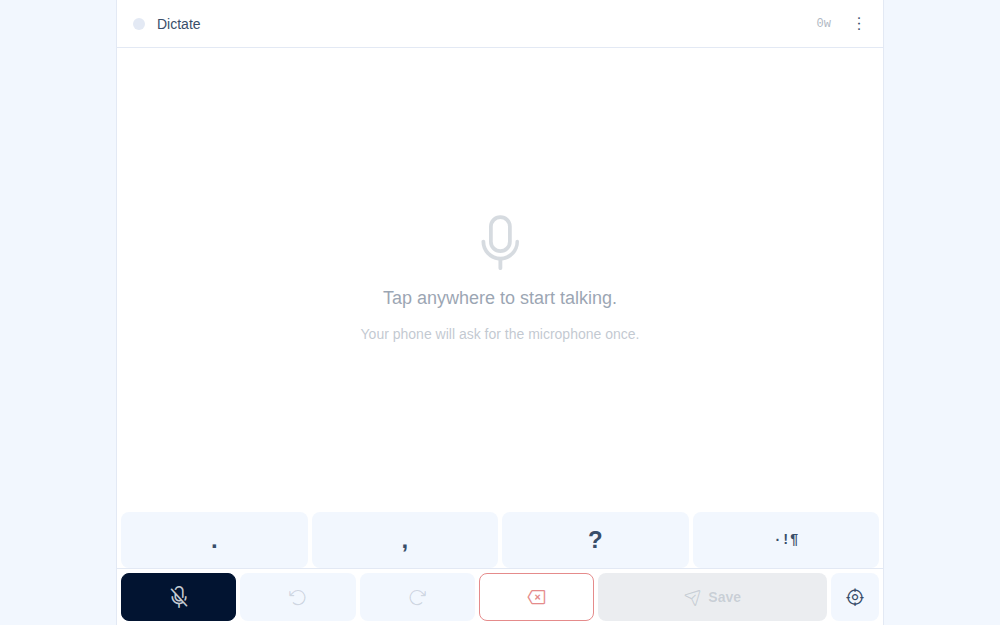
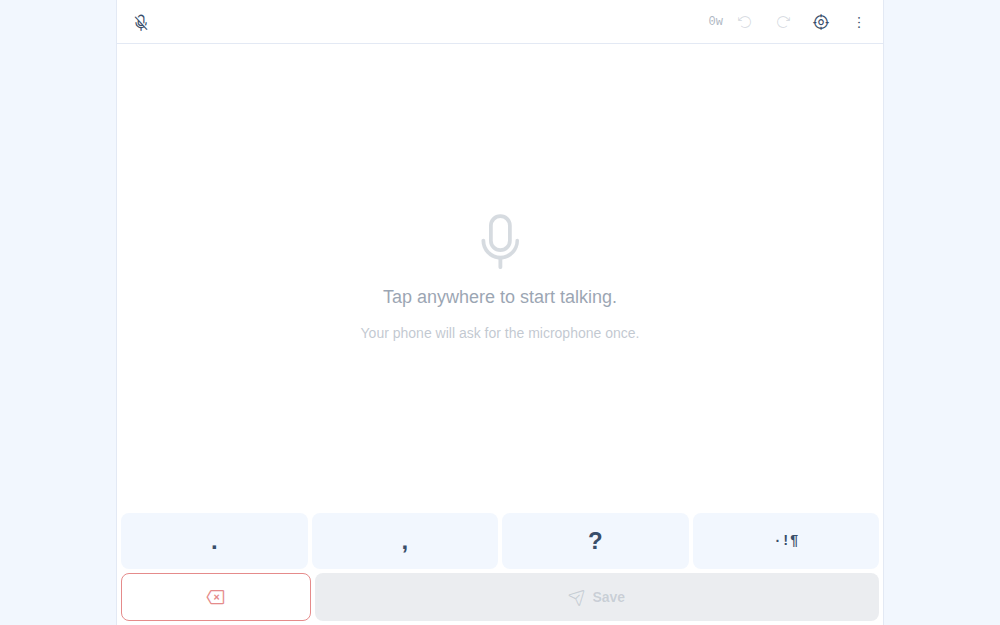
The instruments move to the header, and the target grows a tap
Record, undo, redo and the target are each tapped a handful of times in a
session; the marks and backspace are tapped every sentence. A phone's bottom
edge belongs to whatever is tapped most, so the four move up and go small and
the bottom row comes down to backspace and Save. Record doubles as the state
readout, which is why the header needs no word for it any more.

THE TARGET'S SECOND GESTURE is the reason it can move at all. Drag it and the
caret moves; TAP it and the caret becomes one end of a selection whose other
end is the next tap in the text. Two taps for an arbitrary range, against a
long press that gives only a word and pins that give one edge at a time. The
edge that moved is armed on completion, so the pad refines it without a second
decision. Armed, the button wears the ring an armed pin wears: one visual word
for live-and-pointed-at-the-text, which is what makes it legible without a
label. A tap is told from a drag by raw thumb travel rather than the
accumulated point, since the gain would call a 6px twitch a 14px move.

Claude-Session: https://claude.ai/code/session_01LovPc9gkdZoTEeKLzpPP6H

diff --git a/pages/dictate.html b/pages/dictate.html
@@ -77,6 +77,22 @@
     (kits/dictate.js `opts.fix`), and the ✎ row in the menu adds to it from
     whatever is selected, so the page gets better the more it is wrong.
 
+  WHERE THE CONTROLS SIT, and why the split is where it is. The HEADER holds
+  the four instruments: record, undo, redo, and the target. Each is tapped a
+  handful of times in a session. The BOTTOM holds the marks, backspace and
+  Save, which are tapped every sentence, and a phone's bottom edge belongs to
+  whatever is tapped most. Record doubles as the state readout, since red and
+  pulsing answers "is it hearing me" from across the room and the page then
+  needs no word for it.
+
+  THE TARGET IS TWO GESTURES ON ONE BUTTON, because they are one job: this is
+  the control that aims. DRAG it and the caret moves (the pad, below). TAP it
+  and the caret becomes one end of a selection whose other end is your next
+  tap in the text. Two taps for an arbitrary range, where the long press gives
+  only a word and the pins give one edge at a time. Armed, it wears the ring
+  an armed pin wears, which is this page's one word for "live and pointed at
+  the text" and is why the affordance needs no label.
+
   ADDRESSING
     ?to=copy|share|jot|drop   which destination the save sheet opens on
     ?dest=owner/repo[@ref]:dir   where Drop writes, overriding home/chron/dump
@@ -402,6 +418,9 @@
           // "let me type here", and it used to be the one place that did
           // nothing, because the canvas won before the count.
           if (taps >= 2) { taps = 0; this.editOpen(i == null ? this.d.text.length : i); return; }
+          // The armed anchor takes the tap first, canvas included: a tap past
+          // the last word means the end of the buffer there as everywhere.
+          if (this.anchorTo(i == null ? this.d.text.length : i)) return;
           if (i == null) { this.d.caretAt(this.d.text.length); this.armed = null; this.paint(); return; }
           if (this.armed) this.d.moveEdge(this.armed, i);
           else this.d.caretAt(i);
@@ -430,7 +449,58 @@
       // the three numbers: crawl and the caret creeps at well under 1:1, flick
       // and it runs ahead of the thumb, so a short button reaches a long
       // buffer and the overshoot is walked back without lifting.
-      padDrag: false, precise: false, _pad: null,
+      padDrag: false, precise: false,
+
+      // ── The target's other half: anchoring ────────────────────────────
+      // The pad DRAGS the caret; a plain TAP on it arms a selection that
+      // starts where the caret already is, and the next tap in the text is
+      // the other end. Two taps for an arbitrary range, where the long press
+      // gives a word and the pins give one edge at a time.
+      //
+      // It is the same button because it is the same job: this is the control
+      // that aims. Dragging says where the point goes, tapping says the point
+      // is one end of something. Armed, it wears the ring an armed pin wears,
+      // which is the page's one word for "this is live and pointed at the
+      // text" and is why the affordance needs no label.
+      //
+      // The anchor is read at ARM TIME, not at the tap that completes it, so
+      // speaking or backspacing in between cannot silently move it: a stale
+      // anchor is dropped rather than honoured (see `anchorFrom`).
+      anchoring: false, anchorFrom: null,
+
+      // The caret, with a selection counting as its far end. Extending from
+      // the far end is what shift-click does everywhere, which makes the one
+      // rule cover the collapsed case, the selected case and the empty case
+      // without a branch for any of them.
+      caretOffset() {
+        const r = this.d && this.d.range;
+        return r ? r.end : (this.d ? this.d.text.length : 0);
+      },
+      toggleAnchor() {
+        if (this.anchoring) { this.anchoring = false; this.anchorFrom = null; this.paint(); return; }
+        this.anchoring = true;
+        this.anchorFrom = this.caretOffset();
+        this.paint();
+      },
+      // The completing tap. Returns whether it consumed the tap, so the
+      // gesture handler can fall through to its ordinary reading when the
+      // anchor was never armed.
+      anchorTo(i) {
+        if (!this.anchoring) return false;
+        const a = this.anchorFrom;
+        this.anchoring = false; this.anchorFrom = null;
+        // An anchor past the end of a buffer that shrank under it is not a
+        // position any more, so the tap becomes an ordinary caret placement
+        // rather than a selection to somewhere that is gone.
+        if (a == null || a > this.d.text.length) { this.d.caretAt(i); this.armed = null; this.paint(); return true; }
+        if (a === i) { this.d.caretAt(i); this.armed = null; this.paint(); return true; }
+        this.d.select(a, i);
+        // Arm the edge that just moved, so the pad can refine it without a
+        // second decision: select roughly with two taps, then walk the edge.
+        this.armed = i > a ? 'end' : 'start';
+        this.paint();
+        return true;
+      },
 
       // What the pad is aiming, in client coordinates: the armed pin if one is
       // armed, the caret otherwise. One gesture, two subjects, and which is a
@@ -466,6 +536,7 @@
           // moment, and "flick then creep" is two moments.
           const t = (typeof e.timeStamp === 'number' && e.timeStamp) || 0;
           const dx = e.clientX - from.lx, dy = e.clientY - from.ly;
+          from.travel += Math.abs(dx) + Math.abs(dy);
           const dt = Math.max(8, t - from.lt);
           const k = Math.min(1, Math.max(0, (Math.hypot(dx, dy) / dt - V0) / (V1 - V0)));
           const gain = SLOW + (FAST - SLOW) * k;
@@ -497,8 +568,14 @@
         };
         const up = (e) => {
           if (!from) return;
+          // A TAP IS A DRAG THAT WENT NOWHERE, and it means the other half of
+          // this button. Measured against the raw thumb travel rather than the
+          // accumulated virtual point, since the gain would call a 6px twitch
+          // a 14px move at a flick.
+          const tapped = from.travel < 8;
           from = null;
           this.padDrag = false;
+          if (tapped) this.toggleAnchor();
           const d = document;
           d.removeEventListener('pointermove', move, true);
           d.removeEventListener('pointerup', up, true);
@@ -513,7 +590,7 @@
           if (!p) return;
           e.preventDefault();
           const cs = getComputedStyle(this.$refs.view);
-          from = { x: p.x, y: p.y, y0: p.y, lx: e.clientX, ly: e.clientY,
+          from = { x: p.x, y: p.y, y0: p.y, lx: e.clientX, ly: e.clientY, travel: 0,
                    lt: (typeof e.timeStamp === 'number' && e.timeStamp) || 0,
                    line: parseFloat(cs.lineHeight) || 26 };
           // The flag the text box reads to stand down. It has to: a capture can
@@ -780,6 +857,7 @@
       clear() {
         this.d.text = '';
         this.draft = ''; this.interim = ''; this.armed = null;
+        this.anchoring = false; this.anchorFrom = null;
         this.breaks = false; this.restored = 0;
         ls.del(DRAFT);
         this.elapsed = 0; this.since = Date.now();
@@ -802,18 +880,44 @@
   <!-- ── The status bar ──────────────────────────────────────────────────
        Three facts and a menu, because a capture surface has to answer "is it
        hearing me" without being asked, and answer it from across the room. -->
-  <div class="shrink-0 flex items-center gap-3 px-4 min-h-12 border-b border-base-300 pt-[env(safe-area-inset-top)]">
-    <span class="relative flex size-3 shrink-0">
-      <span x-show="listening" class="absolute inline-flex size-3 rounded-full bg-error opacity-60 animate-ping"></span>
-      <span class="relative inline-flex size-3 rounded-full"
-            :class="listening ? 'bg-error' : 'bg-base-300'"></span>
-    </span>
-    <span class="text-sm font-medium" x-text="listening ? 'Listening' : (started ? 'Paused' : 'Dictate')"></span>
-    <span x-show="started" class="font-mono text-xs opacity-40 tabular-nums" x-text="clock"></span>
-    <div class="grow"></div>
-    <span class="font-mono text-xs opacity-40 tabular-nums" x-text="words + 'w'"></span>
-    <button @click="menu = !menu" class="btn btn-ghost btn-sm btn-square -mr-2" title="More">
-      <i class="ph ph-dots-three-vertical text-xl"></i>
+  <div class="shrink-0 flex items-center gap-1.5 px-2 min-h-11 border-b border-base-300 pt-[env(safe-area-inset-top)]">
+    <!-- RECORD, and it is the state readout as well as the switch: red and
+         pulsing while live, so the one question a capture surface has to
+         answer without being asked is answered by the control that changes
+         it. Small now, because it is tapped twice a session where the marks
+         are tapped every sentence, and the bottom of the screen belongs to
+         whatever is tapped most. -->
+    <button @click="mic()" :disabled="edit"
+            class="btn btn-sm btn-square shrink-0"
+            :class="listening ? 'btn-error' : 'btn-ghost'"
+            :title="listening ? 'Recording. Tap to stop.' : 'Start listening'">
+      <i class="ph text-lg" :class="(listening ? 'ph-microphone animate-pulse' : 'ph-microphone-slash')"></i>
+    </button>
+    <span class="font-mono text-xs opacity-40 tabular-nums shrink-0"
+          x-text="started ? clock : ''"></span>
+    <div class="grow min-w-0"></div>
+    <span class="font-mono text-xs opacity-40 tabular-nums shrink-0" x-text="words + 'w'"></span>
+    <button @click="undo()" :disabled="!canUndo" class="btn btn-ghost btn-sm btn-square shrink-0" title="Undo">
+      <i class="ph ph-arrow-counter-clockwise text-base"></i>
+    </button>
+    <button @click="redo()" :disabled="!canRedo" class="btn btn-ghost btn-sm btn-square shrink-0" title="Redo">
+      <i class="ph ph-arrow-clockwise text-base"></i>
+    </button>
+    <!-- THE TARGET. Two gestures on one button, because they are one job:
+         drag it and the caret moves, tap it and the caret becomes one end of
+         a selection whose other end is your next tap. Armed it wears the ring
+         an armed pin wears, which is this page's one word for "live and
+         pointed at the text". touch-action:none inline is what makes the drag
+         work rather than scrolling the page under it. -->
+    <button x-init="bindPad($el)" :disabled="edit" style="touch-action:none"
+            class="btn btn-sm btn-square shrink-0"
+            :class="anchoring ? 'btn-error btn-outline' : (padDrag ? 'btn-info' : 'btn-ghost')"
+            :title="anchoring ? 'Now tap where the selection should end (tap here again to cancel)'
+                              : 'Drag to move the cursor. Tap to start a selection from it.'">
+      <i class="ph ph-crosshair text-lg"></i>
+    </button>
+    <button @click="menu = !menu" class="btn btn-ghost btn-sm btn-square shrink-0" title="More">
+      <i class="ph ph-dots-three-vertical text-lg"></i>
     </button>
   </div>
 
@@ -919,48 +1023,19 @@
   </div>
 
   <!-- ── The bottom row ──────────────────────────────────────────────────
-       Shorter than the mark keys, and deliberately: the marks are aimed at
-       over and over inside one note, while these are hit once each, so they
-       can give their height back to the words. The PAD TAKES THE CORNER, the
-       cell that most wants one, since it is the only control here that is
-       held and dragged rather than tapped.
-
-       Which is why this page opts out of the FAB (data-no-fab on <body>): the
-       launcher is fixed at bottom-6 right-6 and would sit on the pad. The
-       drawer is a real loss and it is bounded, since a page rendered through
-       a toss declines to mount one anyway and the shell's own drawer is right
-       there; what goes is the drawer on the deployed page, which is a capture
-       appliance opened to say one thing and leave. -->
-  <div class="shrink-0 flex items-stretch gap-1 px-1 pb-1 border-t border-base-300 pt-1"
+       Two controls, since record, undo, redo and the target went to the
+       header. What is left is what a thumb reaches for without looking: the
+       key that takes back a misheard word, and the one that ends the note. -->
+  <div class="shrink-0 flex items-stretch gap-1 px-1 pb-1 pt-1"
        style="padding-bottom:calc(env(safe-area-inset-bottom) + 0.25rem)">
-    <button @click="mic()" :disabled="edit"
-            class="btn h-12 min-h-0 grow basis-0 px-0"
-            :class="listening ? 'btn-error' : 'btn-neutral'"
-            :title="listening ? 'Recording. Tap to stop.' : 'Start listening'">
-      <i class="ph text-2xl" :class="listening ? 'ph-microphone' : 'ph-microphone-slash'"></i>
-    </button>
-    <button @click="undo()" :disabled="!canUndo" class="btn btn-ghost bg-base-200 h-12 min-h-0 grow basis-0 px-0" title="Undo">
-      <i class="ph ph-arrow-counter-clockwise text-xl"></i>
-    </button>
-    <button @click="redo()" :disabled="!canRedo" class="btn btn-ghost bg-base-200 h-12 min-h-0 grow basis-0 px-0" title="Redo">
-      <i class="ph ph-arrow-clockwise text-xl"></i>
-    </button>
     <button @pointerdown.prevent="back()" :disabled="edit"
-            class="btn btn-outline btn-error h-12 min-h-0 grow basis-0 px-0"
+            class="btn btn-outline btn-error h-12 min-h-0 basis-1/4 px-0"
             title="Delete the last word (dictation keeps running)">
       <i class="ph ph-backspace text-xl"></i>
     </button>
     <button @click="openSheet()" :disabled="empty && !draft.trim()"
-            class="btn btn-primary h-12 min-h-0 grow-[2] basis-0 gap-1.5 px-0">
+            class="btn btn-primary h-12 min-h-0 grow gap-1.5 px-0">
       <i class="ph ph-paper-plane-tilt text-lg"></i>Save
-    </button>
-    <!-- The pad, in the corner. touch-action:none is what makes the drag WORK
-         on a phone rather than scrolling the page under it. -->
-    <button x-init="bindPad($el)" :disabled="edit" style="touch-action:none"
-            class="btn h-12 min-h-0 w-12 shrink-0 px-0"
-            :class="padDrag ? 'btn-info' : 'btn-ghost bg-base-200'"
-            title="Press and drag to move the cursor, or an armed selection edge">
-      <i class="ph ph-crosshair text-xl"></i>
     </button>
   </div>
 
